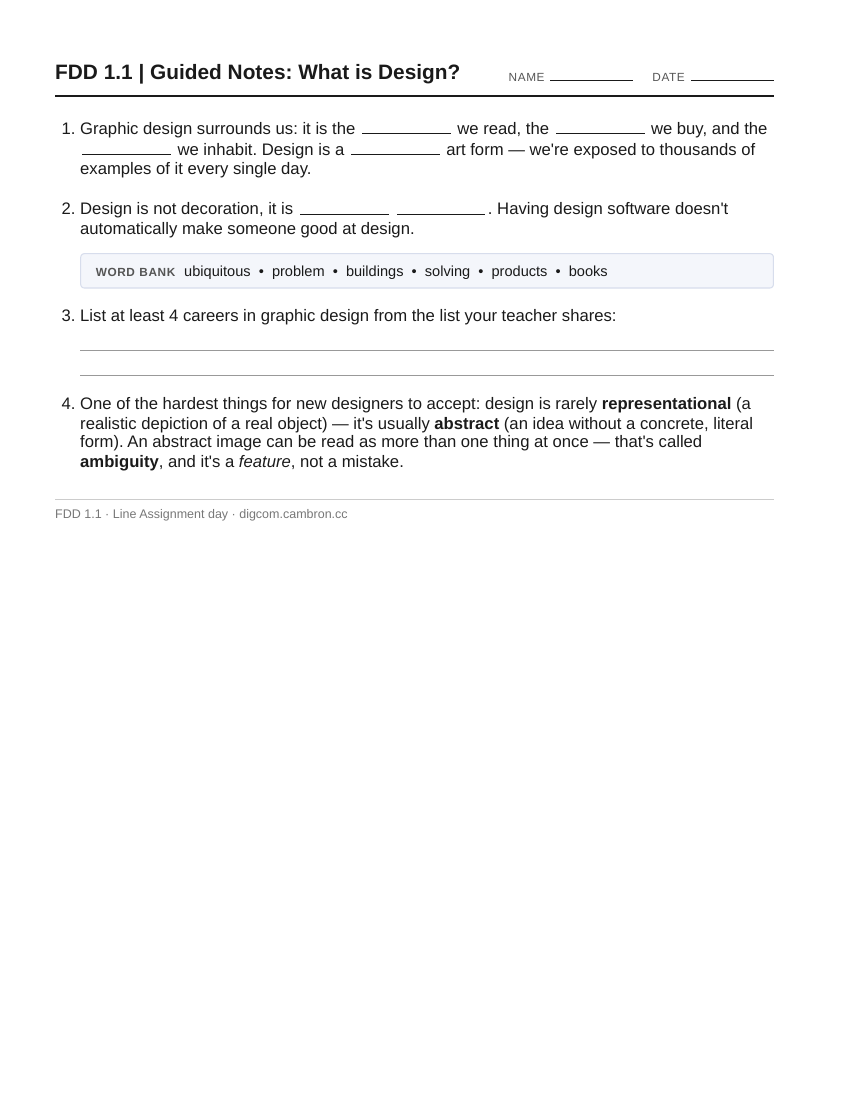
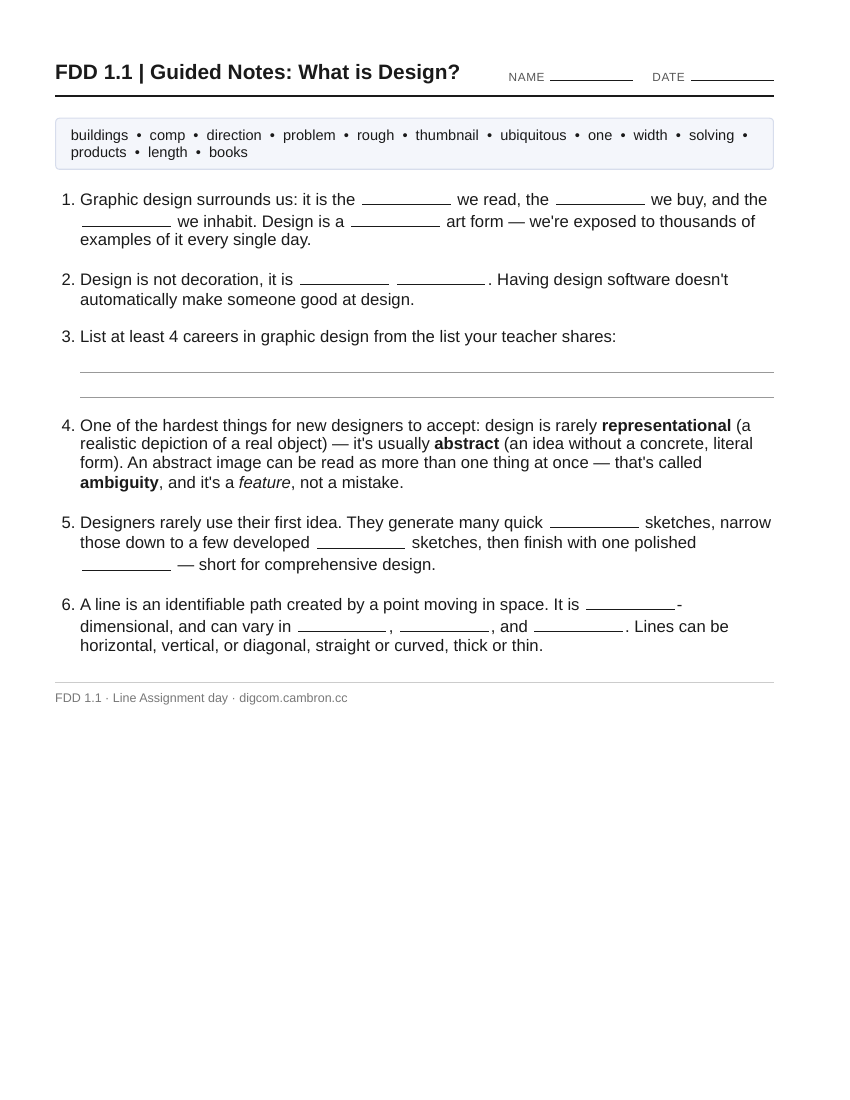
Consolidate word bank above questions, add 2 questions from slide deck
Move the word bank to a single unlabeled box above item 1 (covering all
fill-in-the-blank items on the page) instead of a labeled box embedded
between questions. Add two new fill-in-the-blank items sourced from the
1.1 slide deck: the thumbnail/rough/comp design-process vocabulary, and
the definition of "line" itself (one-dimensional; varies in width,
direction, length) — both previously untested by this worksheet.

Claude-Session: https://claude.ai/code/session_014jFSxuecPDbgXhKhWMkYbz

Changed region(s): [[0.0612, 0.0927, 0.9176, 0.6491], [0.7341, 0.5564, 0.8565, 0.5873], [0.0612, 0.6182, 0.0918, 0.6491]]

diff --git a/worksheet-sources/guided-notes-1-1.html b/worksheet-sources/guided-notes-1-1.html
@@ -13,15 +13,14 @@
       <div class="ws-field-inline"><span class="ws-field-label-inline">Date</span><span class="field-blank"></span></div>
     </div>
   </div>
+  <div class="word-bank">buildings &nbsp;&bull;&nbsp; comp &nbsp;&bull;&nbsp; direction &nbsp;&bull;&nbsp; problem &nbsp;&bull;&nbsp; rough &nbsp;&bull;&nbsp; thumbnail &nbsp;&bull;&nbsp; ubiquitous &nbsp;&bull;&nbsp; one &nbsp;&bull;&nbsp; width &nbsp;&bull;&nbsp; solving &nbsp;&bull;&nbsp; products &nbsp;&bull;&nbsp; length &nbsp;&bull;&nbsp; books</div>
   <ol class="ws-items">
     <li>Graphic design surrounds us: it is the <span class="blank"></span> we read, the
       <span class="blank"></span> we buy, and the <span class="blank"></span> we inhabit.
       Design is a <span class="blank"></span> art form &mdash; we're exposed to thousands of
       examples of it every single day.</li>
     <li>Design is not decoration, it is <span class="blank"></span> <span class="blank"></span>.
-      Having design software doesn't automatically make someone good at design.
-      <div class="word-bank"><span class="word-bank-label">Word Bank</span>ubiquitous &nbsp;&bull;&nbsp; problem &nbsp;&bull;&nbsp; buildings &nbsp;&bull;&nbsp; solving &nbsp;&bull;&nbsp; products &nbsp;&bull;&nbsp; books</div>
-    </li>
+      Having design software doesn't automatically make someone good at design.</li>
     <li>List at least 4 careers in graphic design from the list your teacher shares:
       <div class="lines"><div class="line"></div><div class="line"></div></div>
     </li>
@@ -30,6 +29,14 @@
       usually <strong>abstract</strong> (an idea without a concrete, literal form). An abstract
       image can be read as more than one thing at once &mdash; that's called
       <strong>ambiguity</strong>, and it's a <em>feature</em>, not a mistake.</li>
+    <li>Designers rarely use their first idea. They generate many quick
+      <span class="blank"></span> sketches, narrow those down to a few developed
+      <span class="blank"></span> sketches, then finish with one polished
+      <span class="blank"></span> &mdash; short for comprehensive design.</li>
+    <li>A line is an identifiable path created by a point moving in space. It is
+      <span class="blank"></span>-dimensional, and can vary in <span class="blank"></span>,
+      <span class="blank"></span>, and <span class="blank"></span>. Lines can be horizontal,
+      vertical, or diagonal, straight or curved, thick or thin.</li>
   </ol>
   <div class="ws-footer">FDD 1.1 &middot; Line Assignment day &middot; digcom.cambron.cc</div>
 </div>

diff --git a/worksheet-sources/worksheet.css b/worksheet-sources/worksheet.css
@@ -98,15 +98,7 @@ html, body {
   border-radius: 4px;
   padding: 8px 14px;
   font-size: 10.5pt;
-  margin: 14px 0;
-}
-.word-bank-label {
-  font-weight: bold;
-  text-transform: uppercase;
-  font-size: 8.5pt;
-  letter-spacing: 0.05em;
-  color: #555;
-  margin-right: 8px;
+  margin: 0 0 18px 0;
 }
 ol.ws-items { padding-left: 24px; margin: 0; }
 ol.ws-items > li { margin-bottom: 18px; }
